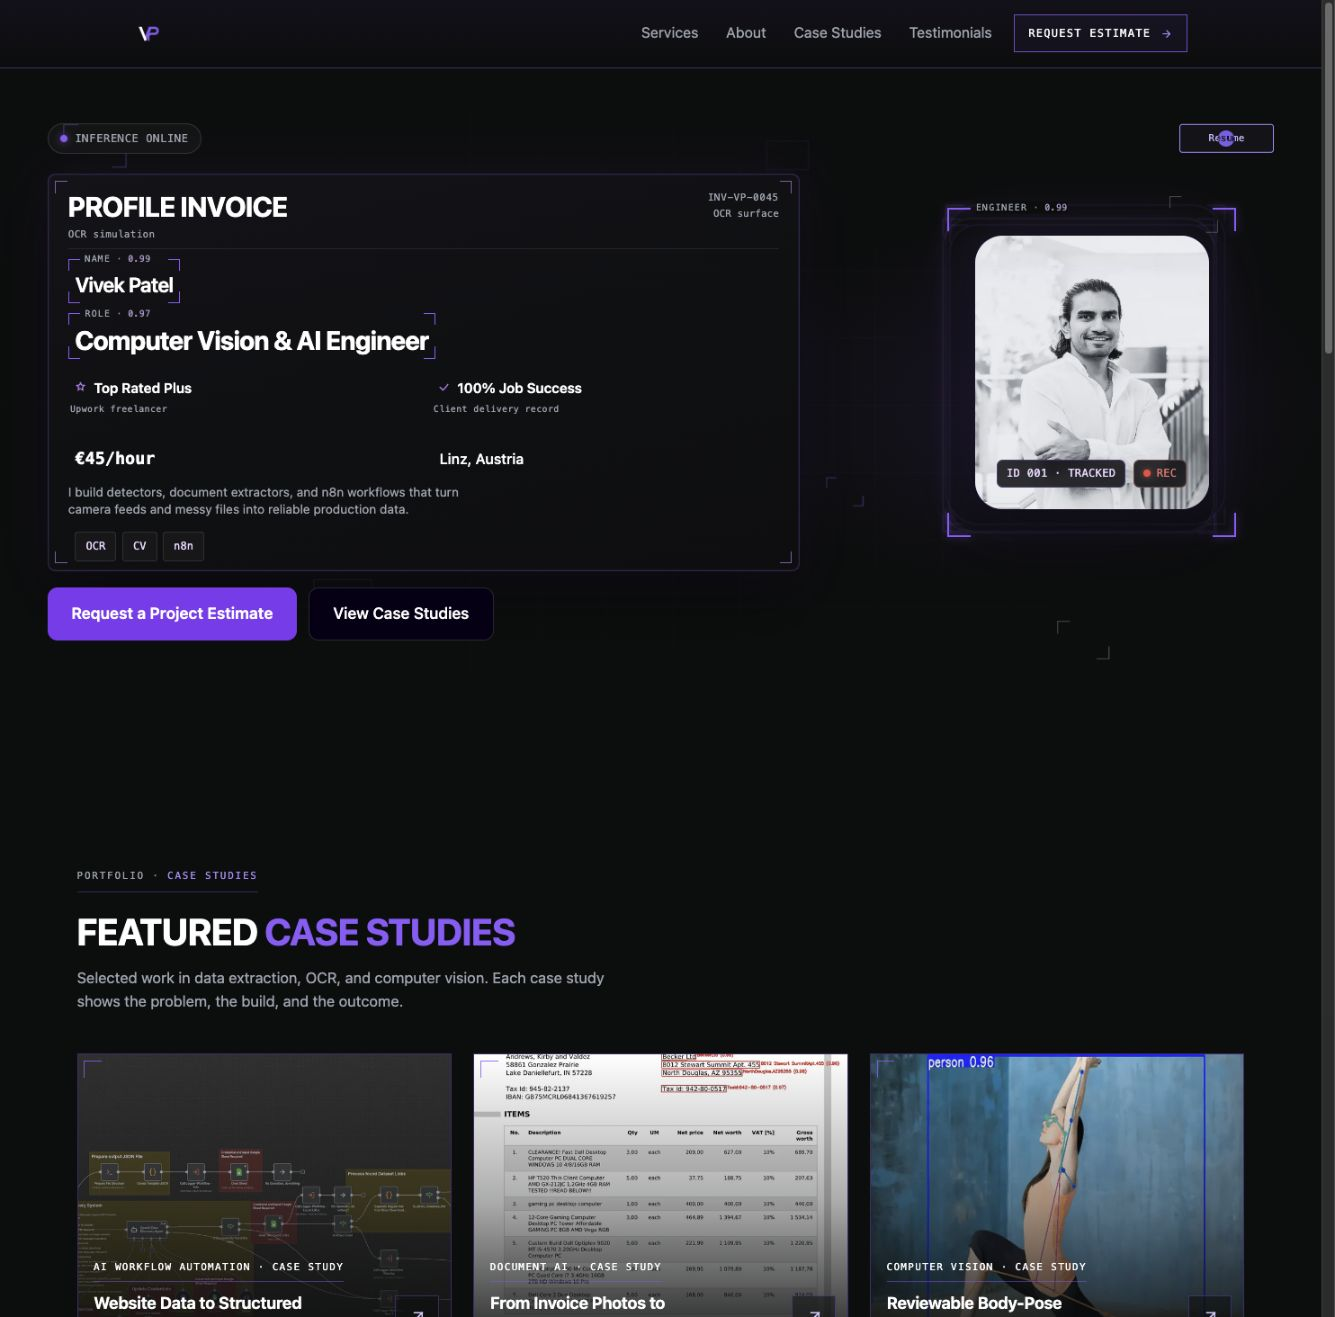
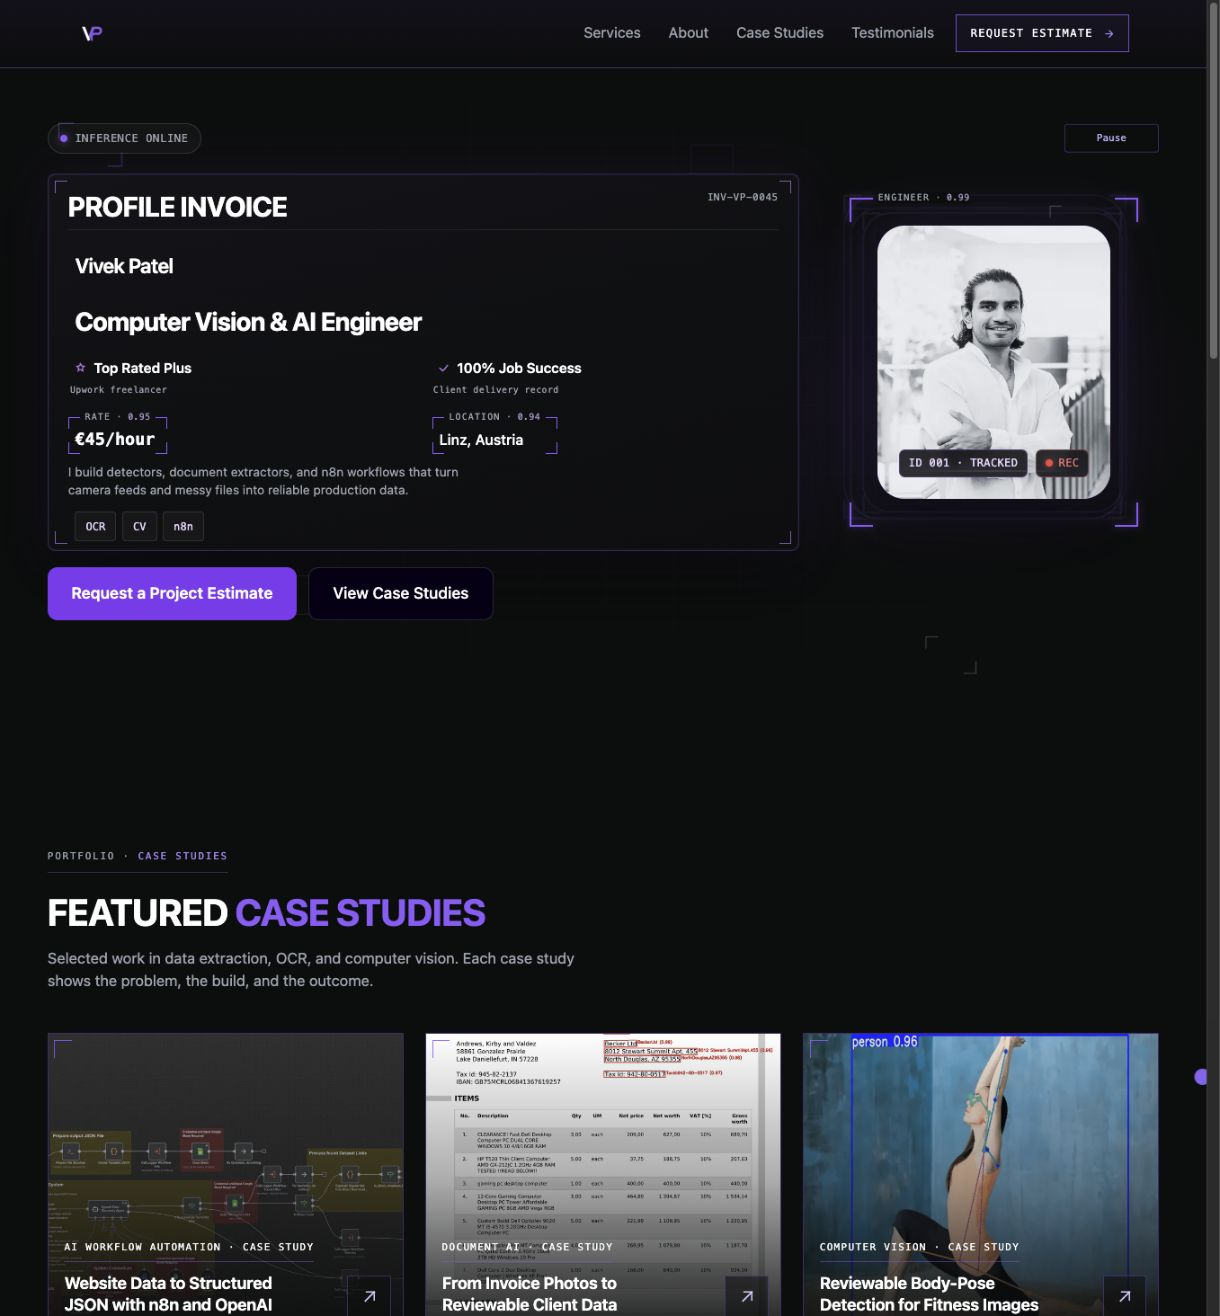
fix(hero): remove OCR header captions

diff --git a/src/components/Hero.jsx b/src/components/Hero.jsx
@@ -314,11 +314,9 @@ const Hero = () => {
                 <div className="flex justify-between items-start mb-1 pb-1.5 border-b border-white/[0.08] max-md:mb-1 max-md:pb-1">
                   <div>
                     <div className="text-[clamp(1.25rem,2.4vw,1.75rem)] font-bold tracking-tight leading-[1.2] uppercase text-white">Profile Invoice</div>
-                    <div className="mt-1 font-mono text-[10px] text-gray-400 tracking-wide">OCR simulation</div>
                   </div>
                   <div className="text-right font-mono text-[10px] leading-relaxed text-gray-400">
                     <strong className="block text-gray-400 font-medium tracking-wider">INV-VP-0045</strong>
-                    OCR surface
                   </div>
                 </div>
 

diff --git a/tests/qa/qa-hero-ocr-labels.spec.js b/tests/qa/qa-hero-ocr-labels.spec.js
@@ -40,7 +40,6 @@ for (const { width, height } of viewports) {
       await page.goto('/');
       await page.clock.pauseAt(new Date('2026-10-03T08:00:01Z'));
       const invoice = page.getByRole('article', { name: 'Profile invoice field parse' });
-      await expect(invoice.getByText('OCR simulation', { exact: true })).toBeVisible();
       await expect(invoice.getByText('doc · extract · 0.97', { exact: true })).toHaveCount(0);
       await expect(page.getByRole('heading', { level: 1 })).toHaveCount(1);
       await expect(invoice.getByText('Tags · 0.93', { exact: true })).toHaveCount(0);

diff --git a/src/components/Hero.test.jsx b/src/components/Hero.test.jsx
@@ -168,7 +168,6 @@ describe('Hero illustrative OCR labels (#297)', () => {
       expect(label.querySelector('[aria-hidden="true"]').textContent).toBe(` · ${score}`);
       expect(label.closest('[tabindex], [aria-live]')).toBeNull();
     });
-    expect(screen.getByText('OCR simulation', { exact: true })).toBeTruthy();
     expect(container.querySelectorAll('.invoice-field-corners')).toHaveLength(2);
     expect(container.querySelector('[data-hero-field="tags"]')).toBeNull();
     expect(screen.queryByText('Tags', { exact: true })).toBeNull();

diff --git a/tests/qa/qa-a11y.spec.js b/tests/qa/qa-a11y.spec.js
@@ -1374,6 +1374,5 @@ test('hero invoice proof fold structure per #176', async ({ page }) => {
   await expect(locationField.getByText('Linz, Austria', { exact: true })).toBeVisible();
   
   await expect(page.getByText('doc · extract · 0.97', { exact: true })).toHaveCount(0);
-  await expect(invoice.getByText('OCR simulation', { exact: true })).toBeVisible();
   await expect(page.getByText('INV-VP-0045')).toBeVisible();
 });

diff --git a/docs/qa/hero-ocr-labels-297.md b/docs/qa/hero-ocr-labels-297.md
@@ -16,7 +16,7 @@ This experiment supersedes the earlier three-highlight cycle, the Rate exclusion
 
 ## Label and portrait attachment
 
-The six rotating invoice labels retain their fixed illustrative confidence scores. `Tags · 0.93` is removed because the topic chips are not detected fields. The header says `OCR simulation`. The outer `DOC · EXTRACT · 0.97` badge is removed at Vivek's request. Each field uses one intrinsic grid for its label and value. A label begins 17 CSS pixels from the frame's left edge, leaving a 5px gap after its 12px corner stroke. Its 12px line box is centered on the 6px top-edge guide. Hidden annotations keep their reserved row and geometry.
+The six rotating invoice labels retain their fixed illustrative confidence scores. `Tags · 0.93` is removed because the topic chips are not detected fields. The `OCR simulation` and `OCR surface` captions are removed at Vivek's request. The outer `DOC · EXTRACT · 0.97` badge is removed at Vivek's request. Each field uses one intrinsic grid for its label and value. A label begins 17 CSS pixels from the frame's left edge, leaving a 5px gap after its 12px corner stroke. Its 12px line box is centered on the 6px top-edge guide. Hidden annotations keep their reserved row and geometry.
 
 The portrait tag begins 29px from the strongest outer frame's left edge, leaving a 5px gap after its 24px stroke. Its vertical center matches that frame guide within half a CSS pixel. The engineer annotation now uses the same plain grey label and quieter score treatment as the invoice fields, with no outlined badge, rounded box, padding, or blur. Lower badges, portrait source, factual values, h1, invoice outer padding, and action destinations remain intact.
 
@@ -32,7 +32,7 @@ The selection also stops when the document is hidden, the hero is offscreen, and
 
 ## Desktop verification
 
-Vivek requested desktop/laptop verification only until the animation direction is agreed. Automated annotation checks use an actual 1440 × 900 CSS viewport, with an additional laptop fold check at 1280 × 720. The live Codex browser reports 1349 × 1331 CSS pixels and remains open with the animation running. Its screenshot records that desktop feedback view.
+Vivek requested desktop/laptop verification only until the animation direction is agreed. Automated annotation checks use an actual 1440 × 900 CSS viewport, with an additional laptop fold check at 1280 × 720. The live Codex browser reports 1234 × 1331 CSS pixels and remains open with the animation running. Its screenshot records that desktop feedback view.
 
 - All three pair states pass label clearance, value containment, fixed-score, and portrait-anchor checks.
 - A real six-second cycle reaches Credential/Success, Rate/Location, and Name/Role in order. Field and action rectangles remain unchanged.
@@ -73,11 +73,11 @@ Keep both issues open with `Refs #297` and `Refs #292` while visual agreement an
 
 ## Visual evidence
 
-The desktop screenshot captures the current cleanup in the Name/Role state. The replacement clip captures the current design through the full three-pair cycle, including the uppercase title, white location value, and removed document badge.
+The desktop screenshot captures the current cleanup in the Rate/Location state. The lossless clip captures the full three-pair cycle before the two OCR header captions were removed. The screenshot reflects their removal.
 
 ![Current desktop two-box annotation experiment](hero-ocr-labels-297/after-desktop.jpg)
 
-[Current desktop animation clip, without compression shimmer](hero-ocr-labels-297/desktop-animation.webm)
+[Desktop animation clip before header-caption removal, without compression shimmer](hero-ocr-labels-297/desktop-animation.webm)
 
 ### Original desktop baseline
 
@@ -104,3 +104,5 @@ The document-badge followup starts from `247478d34f77138c61766f41b33c881a1ecbae9
 The final capitalization and location-color followup changes only two Tailwind classes. Desktop inspection confirms uppercase title presentation, location `rgb(255, 255, 255)`, and one h1. Six existing desktop annotation and laptop-fold cases pass again, alongside 828 unit tests and the production build. Fresh Standards and Spec reviews find no actionable issues. The starting commit is `a56854272edb393f6e14c52655d5f78e71aa2b77`; baseline and ownership records are retained in `/private/tmp/hero-title-color-300-kK4A`.
 
 The recording-only followup starts from `a0232cfaa45c5c319c6c977fe66c551e20d24e8d` and replaces only the evidence clip and this report. Its baseline and ownership records are retained in `/private/tmp/hero-still-300-wA60`. Shared feedback previews and all pre-existing untracked files are preserved. Capture and encoding processes are temporary; their disposable source frames and scripts are removed after the replacement recording is verified and pushed.
+
+The header-caption followup removes `OCR simulation` and `OCR surface`, and drops their obsolete positive assertions. It refreshes the desktop screenshot and the existing feedback preview. The production build, all 45 Hero unit tests, and eight desktop/laptop annotation, spacing, accessibility, and fold checks pass. Direct browser inspection confirms both captions are absent. Its starting commit is `d9e540a9ff1f79907fa5959b8e5fbf77e5ae68db`; baseline and ownership records are retained in `/private/tmp/hero-header-300-ABaKwR`.
